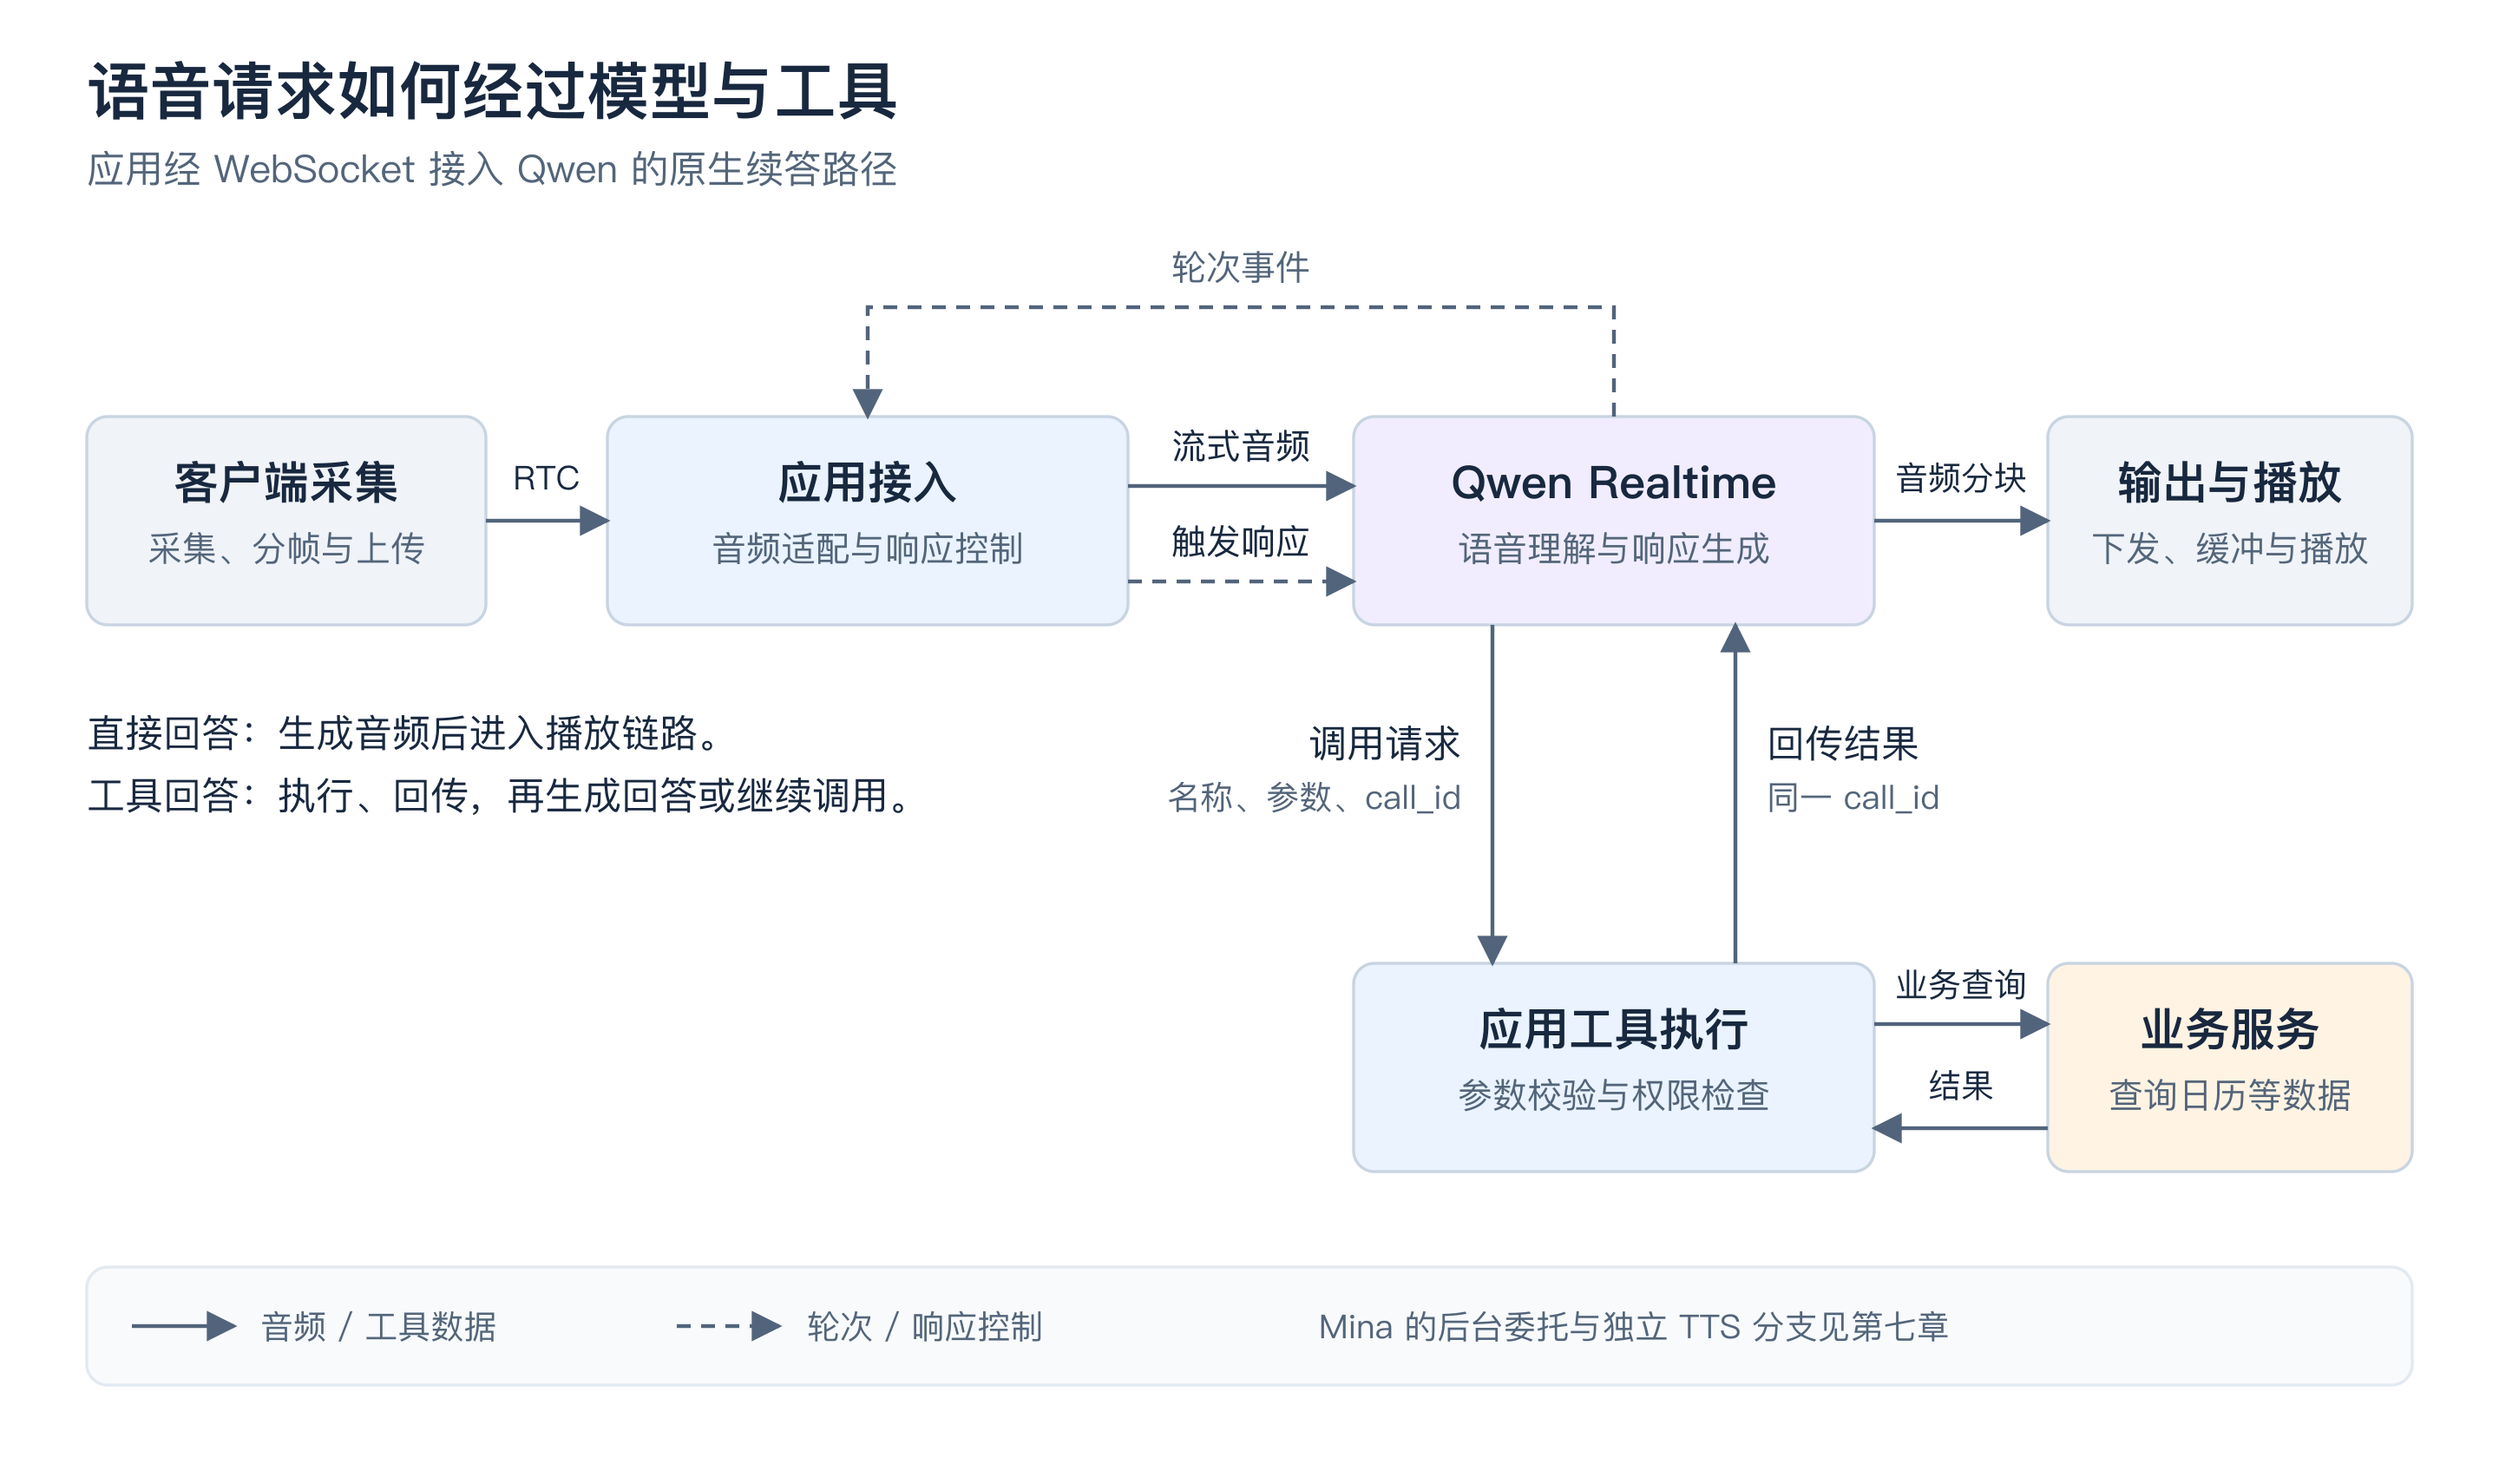
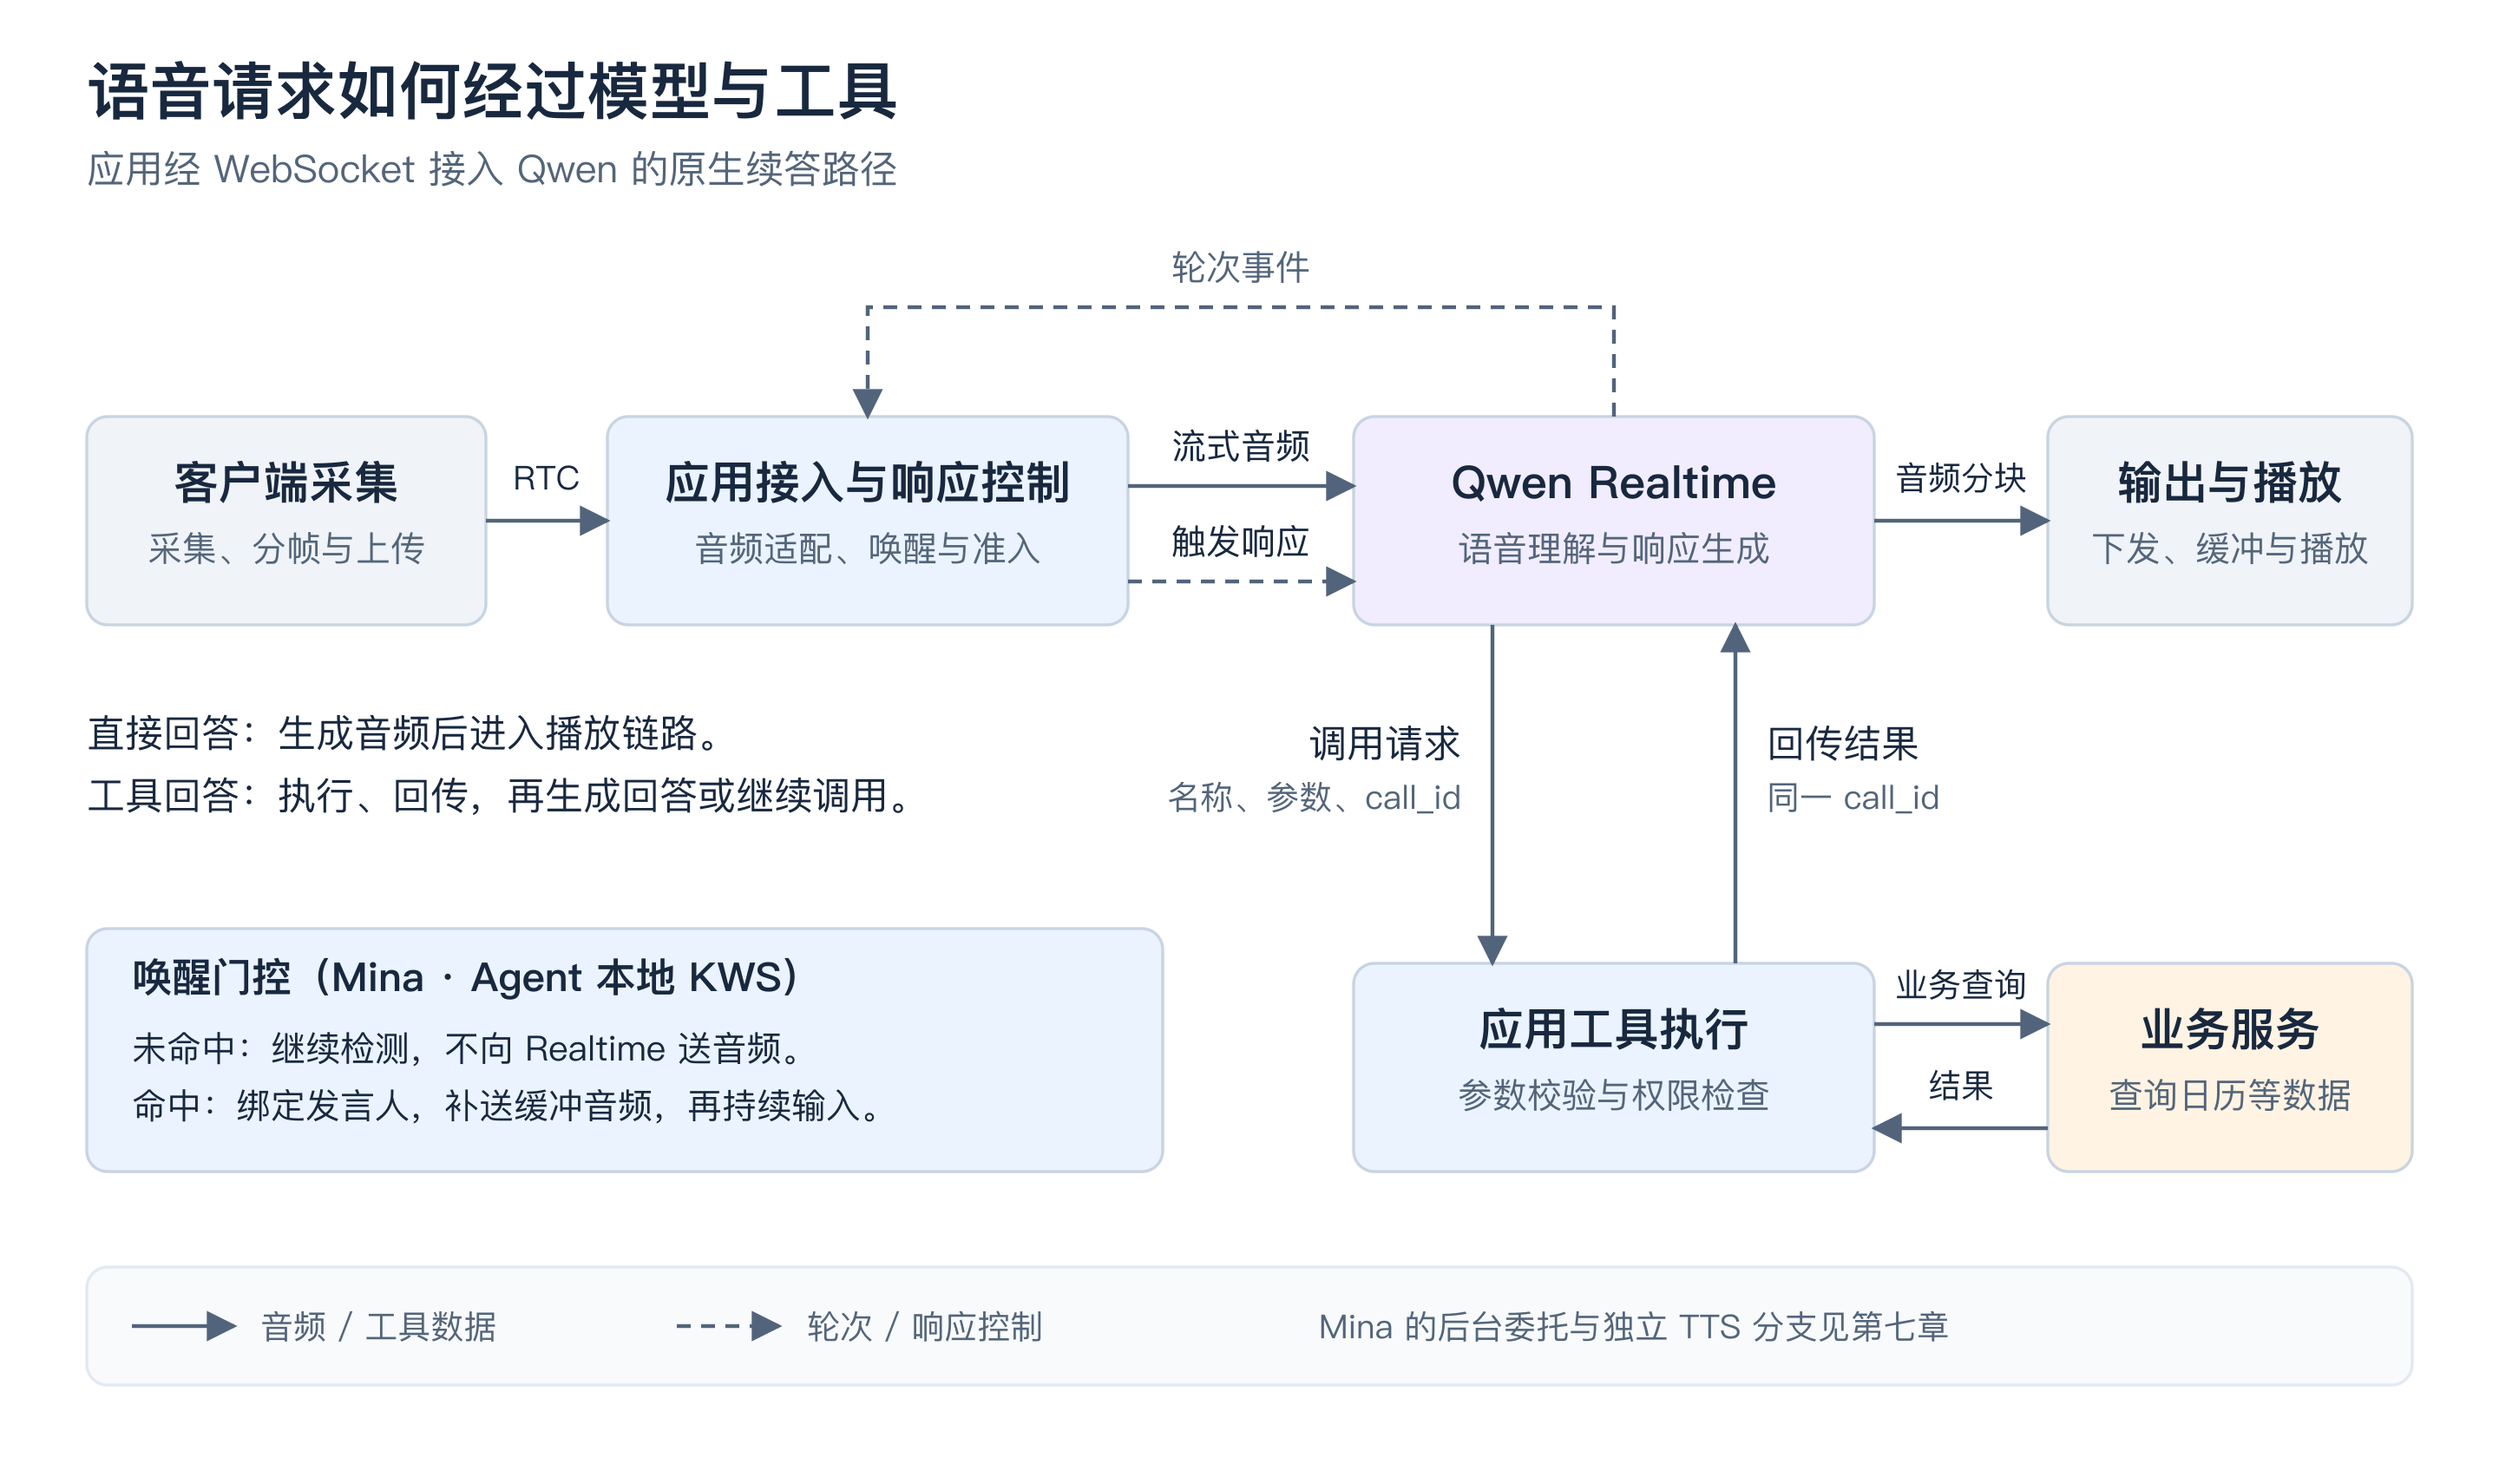
docs(voice-agent): explain activation, turn detection and provider tool protocols

diff --git a/docs/articles/assets/voice-agent-02-realtime-pipeline/render_diagrams.py b/docs/articles/assets/voice-agent-02-realtime-pipeline/render_diagrams.py
@@ -43,11 +43,11 @@ class SVG:
         subprocess.run(['node', '-e', "const sharp=require('sharp'); sharp(process.argv[1],{density:144}).png().toFile(process.argv[2]).catch(e=>{console.error(e);process.exit(1)});", str(target), str(target.with_suffix('.png'))], check=True)
 
 
-flow = SVG(1440, 840, '语音请求如何经过模型与工具', '客户端采集经应用输入 Qwen。应用控制响应，Qwen 可直接返回音频，也可请求应用执行工具；工具调用业务服务后将结果回传模型。')
+flow = SVG(1440, 840, '语音请求如何经过模型与工具', '客户端音频经 RTC 到达应用，在 Agent 本地通过唤醒门控后输入 Qwen。应用控制响应，Qwen 可直接返回音频，也可请求应用执行工具；工具调用业务服务后将结果回传模型。')
 flow.text(50, 65, '语音请求如何经过模型与工具', 36, weight=650)
 flow.text(50, 105, '应用经 WebSocket 接入 Qwen 的原生续答路径', 22, color=MUTED)
 flow.node(50, 240, 230, 120, '客户端采集', '采集、分帧与上传', GRAY)
-flow.node(350, 240, 300, 120, '应用接入', '音频适配与响应控制', BLUE)
+flow.node(350, 240, 300, 120, '应用接入与响应控制', '音频适配、唤醒与准入', BLUE)
 flow.node(780, 240, 300, 120, 'Qwen Realtime', '语音理解与响应生成', PURPLE)
 flow.node(1180, 240, 210, 120, '输出与播放', '下发、缓冲与播放', GRAY)
 flow.node(780, 555, 300, 120, '应用工具执行', '参数校验与权限检查', BLUE)
@@ -74,6 +74,10 @@ flow.path('M 1180 650 L 1080 650')
 flow.text(1130, 632, '结果', 19, 'middle')
 flow.text(50, 430, '直接回答：生成音频后进入播放链路。', 22)
 flow.text(50, 466, '工具回答：执行、回传，再生成回答或继续调用。', 22)
+flow.rect(50, 535, 620, 140, BLUE)
+flow.text(76, 571, '唤醒门控（Mina · Agent 本地 KWS）', 23, weight=600)
+flow.text(76, 611, '未命中：继续检测，不向 Realtime 送音频。', 20)
+flow.text(76, 644, '命中：绑定发言人，补送缓冲音频，再持续输入。', 20)
 flow.rect(50, 730, 1340, 68, '#f8fafc', '#e3e9f0')
 flow.path('M 76 764 L 135 764')
 flow.text(150, 771, '音频 / 工具数据', 19, color=MUTED)
@@ -84,7 +88,7 @@ flow.write('01-voice-pipeline')
 
 seq = SVG(1440, 1660, '一次 Qwen 工具调用如何完成', '应用配置会话并持续输入音频，轮次准入后触发响应。模型请求工具，应用校验权限，执行查询或构造拒绝结果，按 call_id 回传并请求续答，最后流式播放音频。')
 seq.text(50, 60, '一次 Qwen 工具调用如何完成', 36, weight=650)
-seq.text(50, 99, '应用控制响应的查询示例 · 时间从上到下', 22, color=MUTED)
+seq.text(50, 99, '已唤醒的会话 · 应用控制响应的查询示例 · 时间从上到下', 22, color=MUTED)
 actors = [('客户端',120,GRAY),('应用 / Agent',400,BLUE),('Qwen Realtime',940,PURPLE),('业务服务',1320,ORANGE)]
 for title, x, fill in actors:
     seq.rect(x-100, 140, 200, 66, fill)
